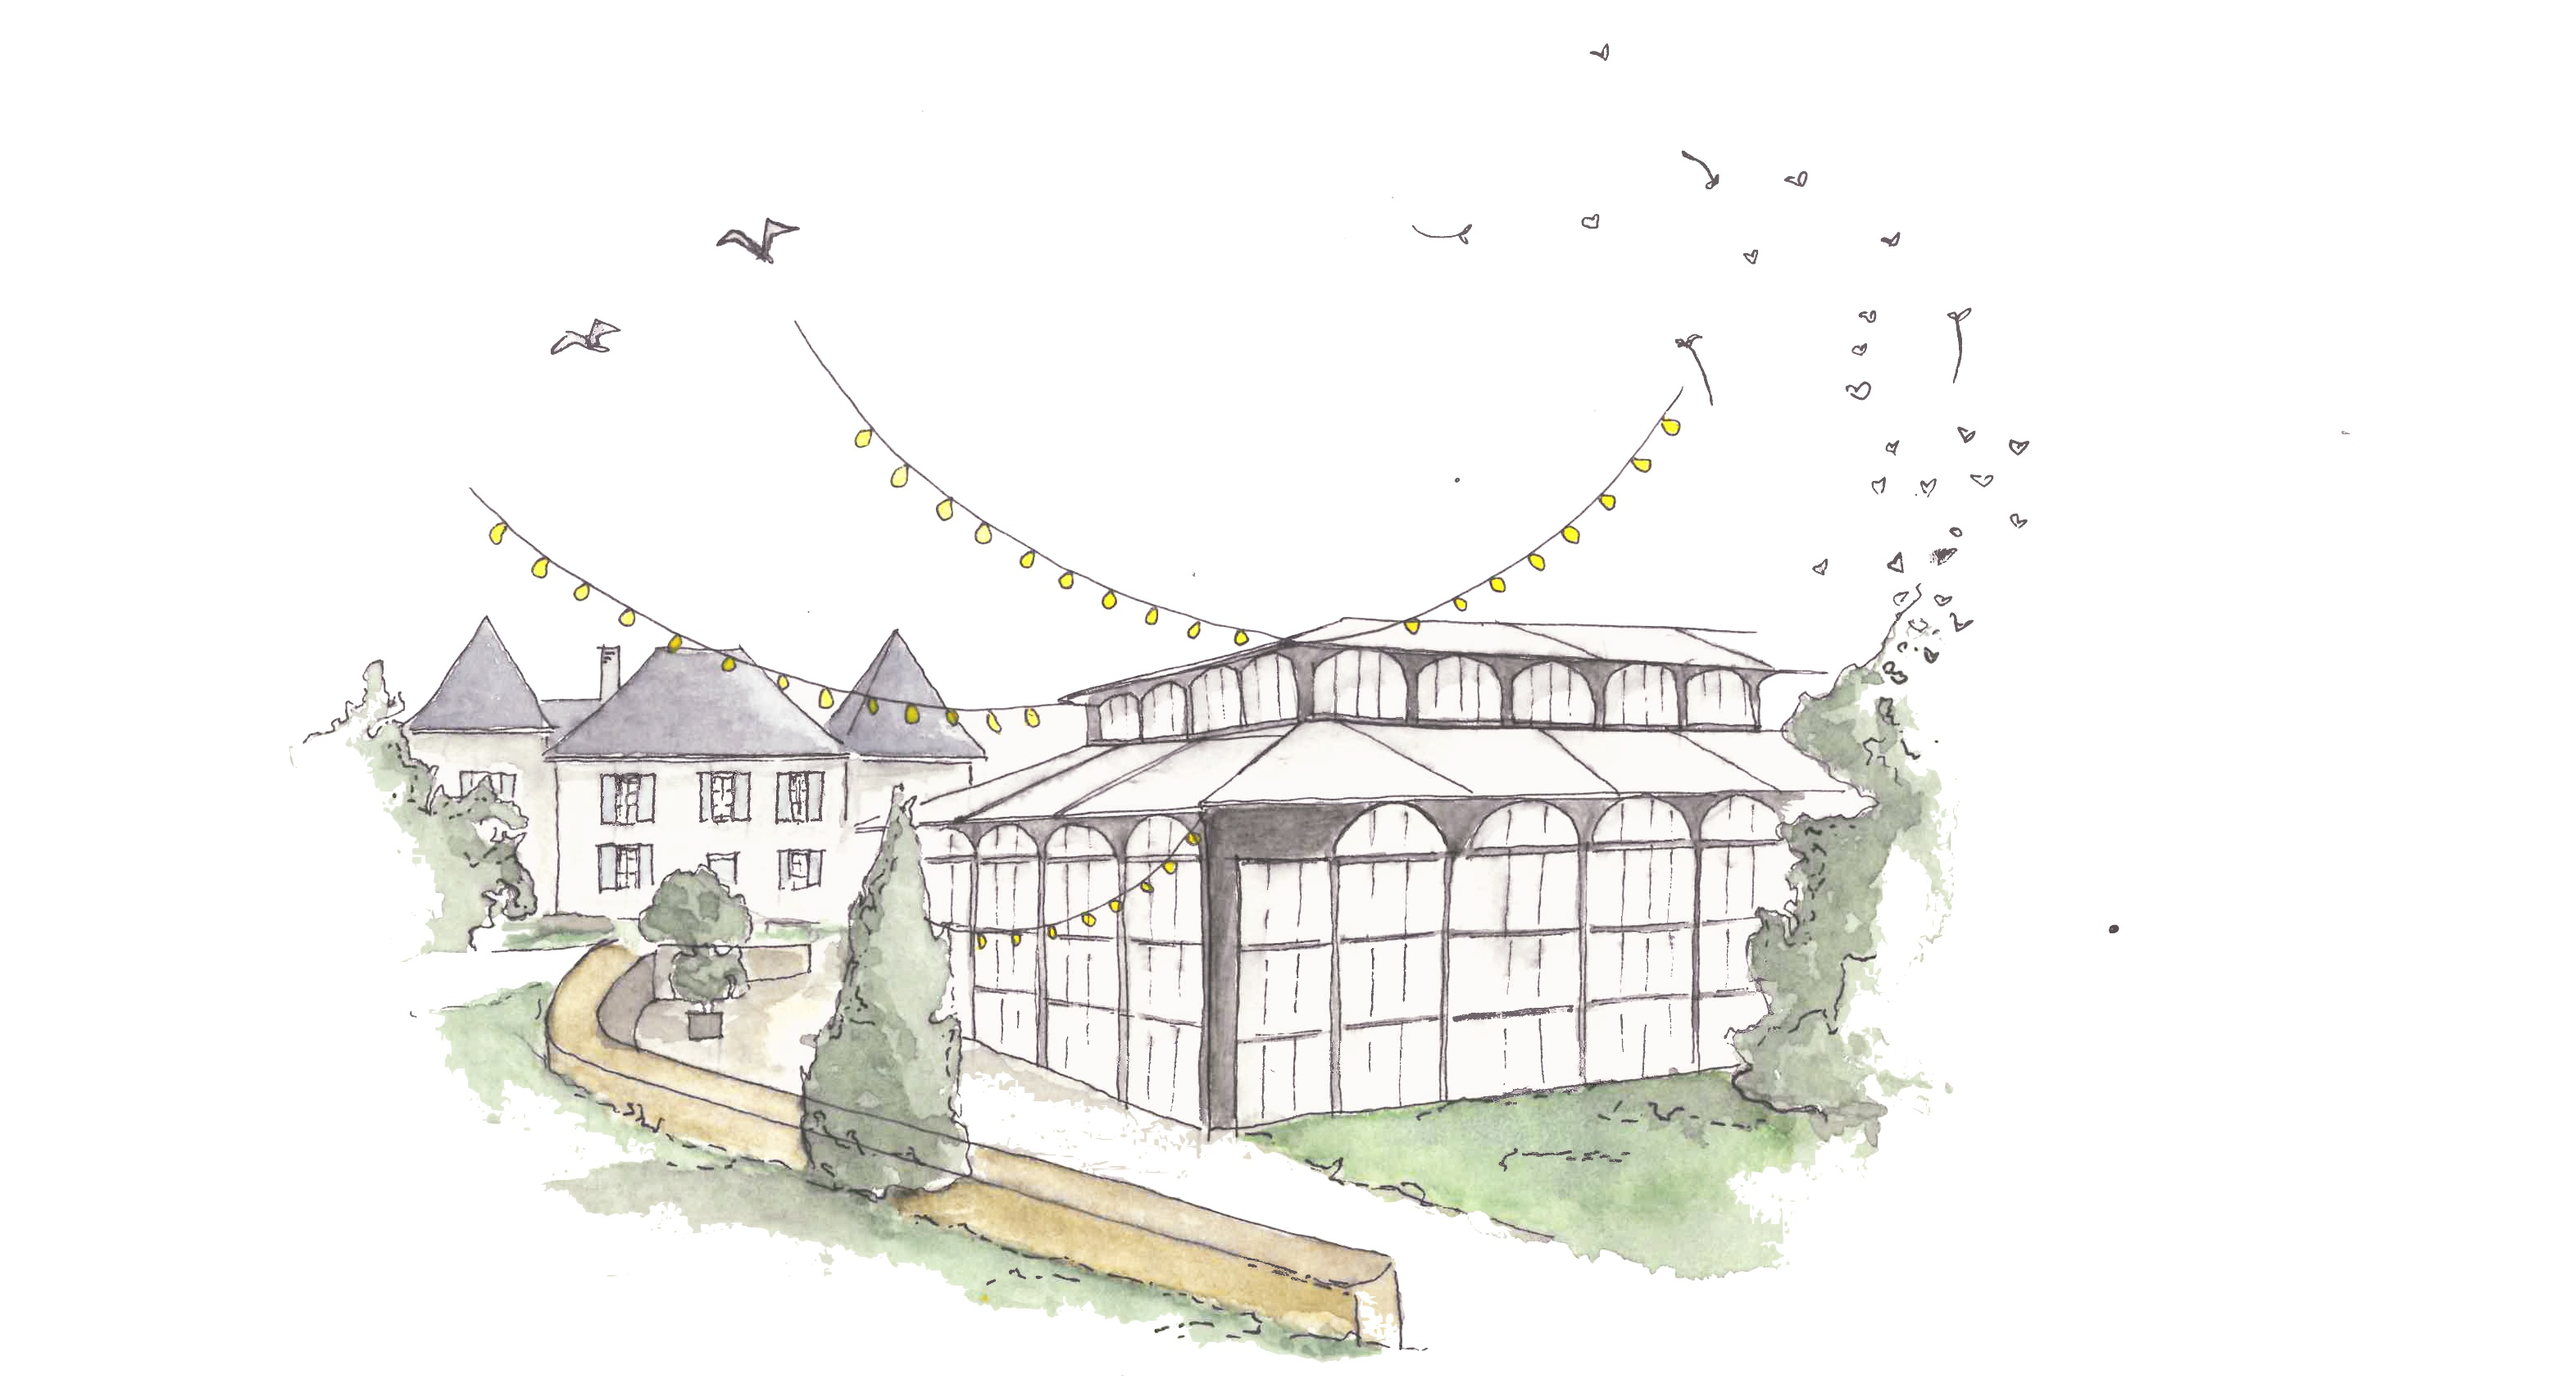
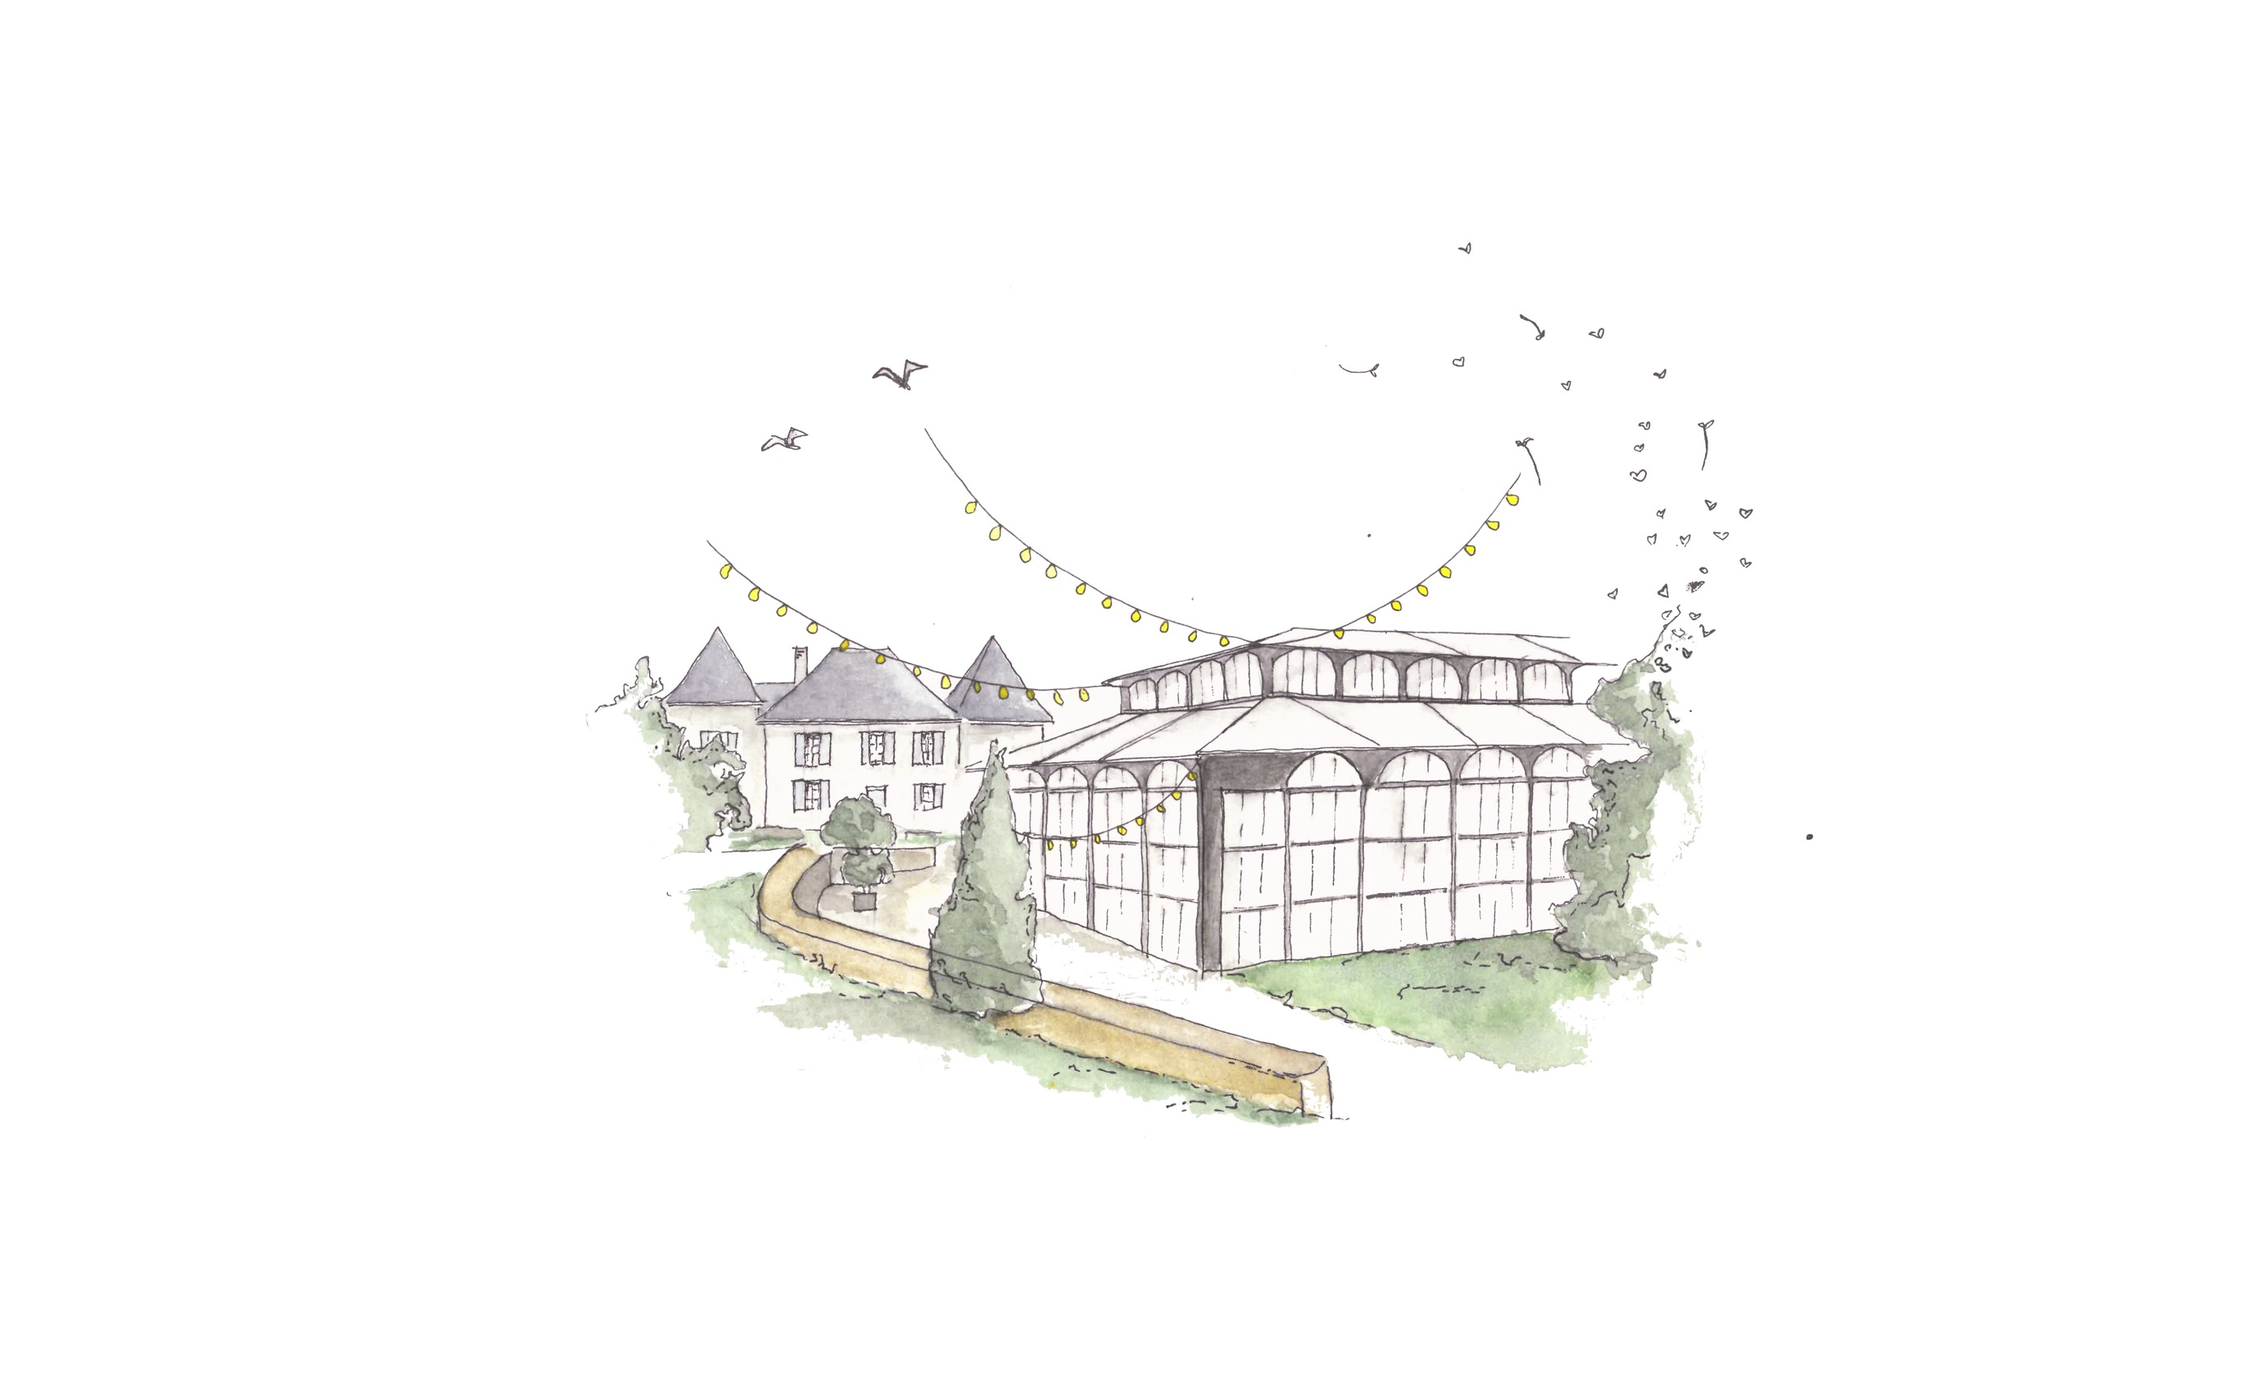
correction-nav+button

diff --git a/style.css b/style.css
@@ -11,14 +11,15 @@ a {
 
 .parallax {
   /* The image used */
-  background-image: url("/public/img/lieu/aquarelle 1-HD.jpg");
+  background-image: url("/public/img/lieu/aquarelle 1-HD.png");
   /* Set a specific height */
-  min-height: 900px;
+  min-height: 1500px;
   /* Create the parallax scrolling effect */
   background-attachment: fixed;
-  background-position: top;
+  background-position: 159px 55%;
   background-repeat: no-repeat;
   background-size: cover;
+  width: 100%;
 }
 @media (max-width: 599px) {
   .parallax {
@@ -56,7 +57,11 @@ a {
   padding: 10px 20px 10px 20px;
   margin-left: auto;
   margin-right: auto;
-  width: auto;
+  width: 10%;
+  height: 20px;
+  position: absolute;
+  left: 45%;
+  top: 20%;
 }
 .list {
   display: flex;
@@ -101,7 +106,7 @@ h1 {
 }
 
 .names {
-  padding-top: 80px;
+  padding-top: 10px;
   color: #4D5043;
 }
 @media (max-width: 599px) {
@@ -162,7 +167,7 @@ h3 {
 }
 
 button:hover {
-  background-color: #A7B3A8;
+  background-color: #C3CBC3;
   cursor: pointer;
   color: #4D5043;
 }
@@ -240,7 +245,6 @@ button {
 }
 
 #countdown-index {
-  margin-top: 4rem;
   width: 80%;
   margin-left: auto;
   margin-right: auto;
@@ -362,7 +366,7 @@ footer > a {
 }
 
 .contact__info__mail:hover {
-  color: #A7B3A8;
+  color: #C3CBC3;
 }
 
 .italic {

diff --git a/sass/base/_base.scss b/sass/base/_base.scss
@@ -11,14 +11,15 @@ a {
 
 .parallax {
     /* The image used */
-    background-image: url("/public/img/lieu/aquarelle\ 1-HD.jpg");
+    background-image: url("/public/img/lieu/aquarelle\ 1-HD.png");
     /* Set a specific height */
-    min-height: 900px;
+    min-height: 1500px;
     /* Create the parallax scrolling effect */
     background-attachment: fixed;
-    background-position: top;
+    background-position: 159px 55%;
     background-repeat: no-repeat;
     background-size: cover;
+    width: 100%;
     @media (max-width: 599px) {
       background-size: contain;
       min-height: 450px;
@@ -52,7 +53,11 @@ a {
     padding: 10px 20px 10px 20px;
     margin-left: auto;
     margin-right: auto;
-    width: auto;
+    width: 10%;
+    height: 20px;
+    position: absolute;
+    left: 45%;
+    top: 20%;
     @media (max-width: 599px) {
       }
   }

diff --git a/pages/logements.html b/pages/logements.html
@@ -47,8 +47,9 @@
         <ul class="menu">
           <li class="menu-item">
             <a class="title-menu" href="../index.html" title="Accueil">
-              <i class="fas fa-home"></i>
-            </a>
+              <!--<i class="fas fa-home"></i>!-->
+              Accueil
+              </a>
           </li>
           <li class="menu-item">
             <a class="title-menu" href="./programme.html" title="Le programme">

diff --git a/pages/rsvp.html b/pages/rsvp.html
@@ -55,8 +55,9 @@
           </a>
         </li>
         <li class="menu-item">
-          <a class="title-menu" href="./rsvp.html" title="rsvp">
-            RSVP
+          <a class="title-menu" href="../index.html" title="Accueil">
+            <!--<i class="fas fa-home"></i>!-->
+            Accueil
           </a>
         </li>
         <li class="menu-item">

diff --git a/pages/nous-rejoindre.html b/pages/nous-rejoindre.html
@@ -48,7 +48,8 @@
         <ul class="menu">
           <li class="menu-item">
             <a class="title-menu" href="../index.html" title="Accueil">
-              <i class="fas fa-home"></i>
+              <!--<i class="fas fa-home"></i>!-->
+              Accueil
             </a>
           </li>
           <li class="menu-item">

diff --git a/pages/programme.html b/pages/programme.html
@@ -48,7 +48,8 @@
         <ul class="menu">
           <li class="menu-item">
             <a class="title-menu" href="../index.html" title="Accueil">
-              <i class="fas fa-home"></i>
+              <!--<i class="fas fa-home"></i>!-->
+              Accueil
             </a>
           </li>
           <li class="menu-item">

diff --git a/index.html b/index.html
@@ -47,7 +47,8 @@
         <ul class="menu">
           <li class="menu-item">
             <a class="title-menu" href="./index.html" title="Accueil">
-              <i class="fas fa-home"></i>
+              <!--<i class="fas fa-home"></i>!-->
+              Accueil
             </a>
           </li>
           <li class="menu-item">

diff --git a/pages/liste-mariage.html b/pages/liste-mariage.html
@@ -47,7 +47,8 @@
         <ul class="menu">
           <li class="menu-item">
             <a class="title-menu" href="../index.html" title="Accueil">
-              <i class="fas fa-home"></i>
+            <!--<i class="fas fa-home"></i>!-->
+            Accueil
             </a>
           </li>
           <li class="menu-item">

diff --git a/sass/utils/_variables.scss b/sass/utils/_variables.scss
@@ -6,7 +6,7 @@ $colour-grey-light: #F6F6F6;
 $colour-dark-grey: #5D5D5D;
 $colour-box-shadow: #dbdbdb ;
 $salmon:#4D5043;
-$pink:#A7B3A8;
+$pink:#C3CBC3;
 $salmon-blue: #486982;
 $salmon-true: #E1AB97;
 $pink-blue: #C9DDEE;

diff --git a/sass/base/_typography.scss b/sass/base/_typography.scss
@@ -31,7 +31,7 @@ h1 {
         }
 }
 .names{
-    padding-top: 80px;
+    padding-top: 10px;
     color:$salmon;
     @media (max-width: 599px) {
         padding-top: 0;

diff --git a/sass/components/_countdown.scss b/sass/components/_countdown.scss
@@ -1,7 +1,6 @@
 
 #countdown-index
 {
-    margin-top:4rem;
     width: 80%;
     margin-left:auto;
     margin-right:auto;
